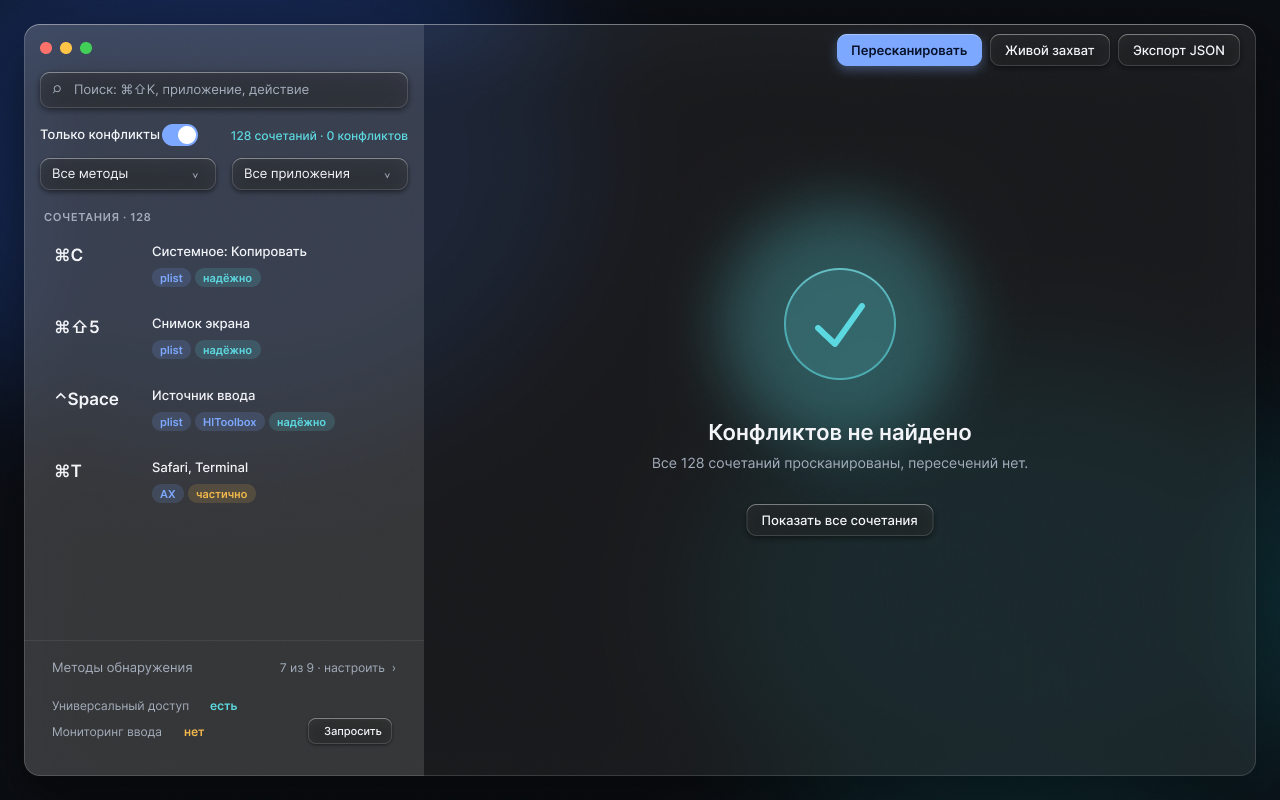
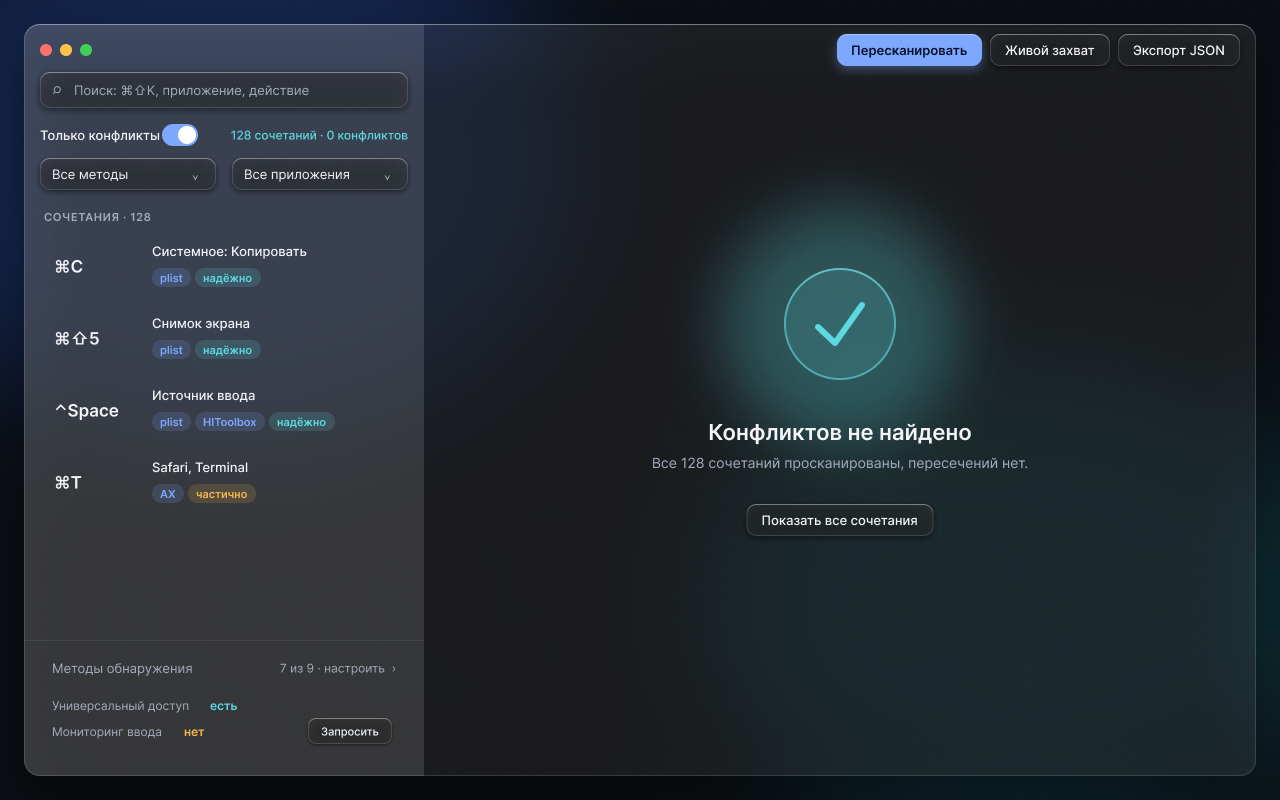
design: centering rules, re-export screens after alignment fixes

diff --git a/design/DESIGN-FOR-AGENTS.md b/design/DESIGN-FOR-AGENTS.md
@@ -83,6 +83,34 @@ tint overlay with the token color and a `strokeBorder` overlay. The window uses
 Ambient backdrop: two blurred ellipses (see STYLE-GUIDE section 3), drawn behind the window content only
 when transparency is allowed.
 
+## 3b. Alignment and optical centering
+
+Same rule as STYLE-GUIDE.md. In SwiftUI:
+
+- Labels and icons inside buttons, badges, pills and circles are centered on both axes: build them as
+  stacks with `.frame(maxWidth: .infinity, maxHeight: .infinity, alignment: .center)` or `HStack(alignment: .center)` and equal padding (buttons 0/14, badges
+  3/8). Never position a label with hand-set x/y offsets. Fixed-size containers (count circle, clear
+  button, switch knob) center their child by `(container - child) / 2` on each axis.
+- Fields, selects, nav rows and switches: leading icon, text, chevron and clear button share the
+  vertical center of the control. The switch knob is centered in its track, and switch, label and counter
+  share one center line in the filter row.
+- Toolbar items, traffic lights and the section's title share one horizontal center line; toolbar buttons
+  are 32 px high and centered in the 52 px toolbar band.
+- Row content: the key combination is vertically centered in the row; the owners and badge block is
+  centered as a group; the count circle and the `раскладка` badge are centered on the row's center line.
+- Badges next to large text (the `Конфликт` badge beside the 34 px combo) are centered on the text box's
+  vertical center, not on its top.
+- Empty state: orb, glow, check mark, title, subtitle and button sit on one vertical axis, the center of the
+  detail pane (x = 816 in the 1280 canvas). The check mark's bounding box is centered in the orb.
+- Optical centering: glyph boxes include side bearings and line gaps, so after centering by box, check
+  the render. Arrows, chevrons and the `⌕` / `×` glyphs may be nudged by at most 1 px; triangular or
+  asymmetric icons are centered on their visual mass, not their bounding box. Prefer real vector icons
+  (SF Symbols with `.imageScale`) over text glyphs in the implementation.
+- Verify on a render, not on the structure: measure label and container centers (tolerance 0.5 px) and
+  look at the exported PNGs at 2×.
+
+Measured in the Figma file (all four screens and both component sheets): label-to-container center offset 0 px for buttons, badges and count circles; empty-state elements 0 px off the axis; filter row label, switch and counter share one center.
+
 ## 4. Tokens
 
 Use `tokens.json` (both themes) or `tokens.css`. In SwiftUI create `Theme.swift` with a `Theme` enum of
@@ -234,5 +262,6 @@ Don't:
 - [ ] All text tokens pass AA (measured on the built UI for both themes and both fallbacks).
 - [ ] Focus ring visible; everything reachable by keyboard; hit targets ≥ 28 px.
 - [ ] Empty state uses the `ok` glow (teal), not green.
+- [ ] Centering: button and badge labels, count circles, switch knobs, field icons and toolbar items are centered on both axes (≤ 0.5 px off on a render); empty-state illustration, text and button share one axis; optical centering of icons checked at 2×.
 - [ ] No hardcoded hex or system-color literals left in views; no change to `ShortcutClashCore`.
 - [ ] `swift build && swift test` pass; before/after screenshots attached to the PR.

diff --git a/design/STYLE-GUIDE.md b/design/STYLE-GUIDE.md
@@ -157,6 +157,30 @@ All components have `default / hover / focus / disabled`; buttons add `pressed`,
   no ambient blobs, shadow `e1` only. Contrast on the fallback is higher than on glass (table below).
 - **Increased contrast** (`accessibilityContrast`): raise `glassBorder` to 40% in dark and use `hairline` at 2×.
 
+### Alignment and optical centering
+
+- Labels and icons inside buttons, badges, pills and circles are centered on both axes: build them as
+  auto-layout with primary and counter axis alignment `center` and equal padding (buttons 0/14, badges
+  3/8). Never position a label with hand-set x/y offsets. Fixed-size containers (count circle, clear
+  button, switch knob) center their child by `(container - child) / 2` on each axis.
+- Fields, selects, nav rows and switches: leading icon, text, chevron and clear button share the
+  vertical center of the control. The switch knob is centered in its track, and switch, label and counter
+  share one center line in the filter row.
+- Toolbar items, traffic lights and the section's title share one horizontal center line; toolbar buttons
+  are 32 px high and centered in the 52 px toolbar band.
+- Row content: the key combination is vertically centered in the row; the owners and badge block is
+  centered as a group; the count circle and the `раскладка` badge are centered on the row's center line.
+- Badges next to large text (the `Конфликт` badge beside the 34 px combo) are centered on the text box's
+  vertical center, not on its top.
+- Empty state: orb, glow, check mark, title, subtitle and button sit on one vertical axis, the center of the
+  detail pane (x = 816 in the 1280 canvas). The check mark's bounding box is centered in the orb.
+- Optical centering: glyph boxes include side bearings and line gaps, so after centering by box, check
+  the render. Arrows, chevrons and the `⌕` / `×` glyphs may be nudged by at most 1 px; triangular or
+  asymmetric icons are centered on their visual mass, not their bounding box. Prefer real vector icons
+  (SF Symbols with `.imageScale`) over text glyphs in the implementation.
+- Verify on a render, not on the structure: measure label and container centers (tolerance 0.5 px) and
+  look at the exported PNGs at 2×.
+
 ## 9. Accessibility
 
 - **Contrast (WCAG AA, 4.5:1 text, 3:1 non-text).** Computed for text tokens over the glass surface and the
